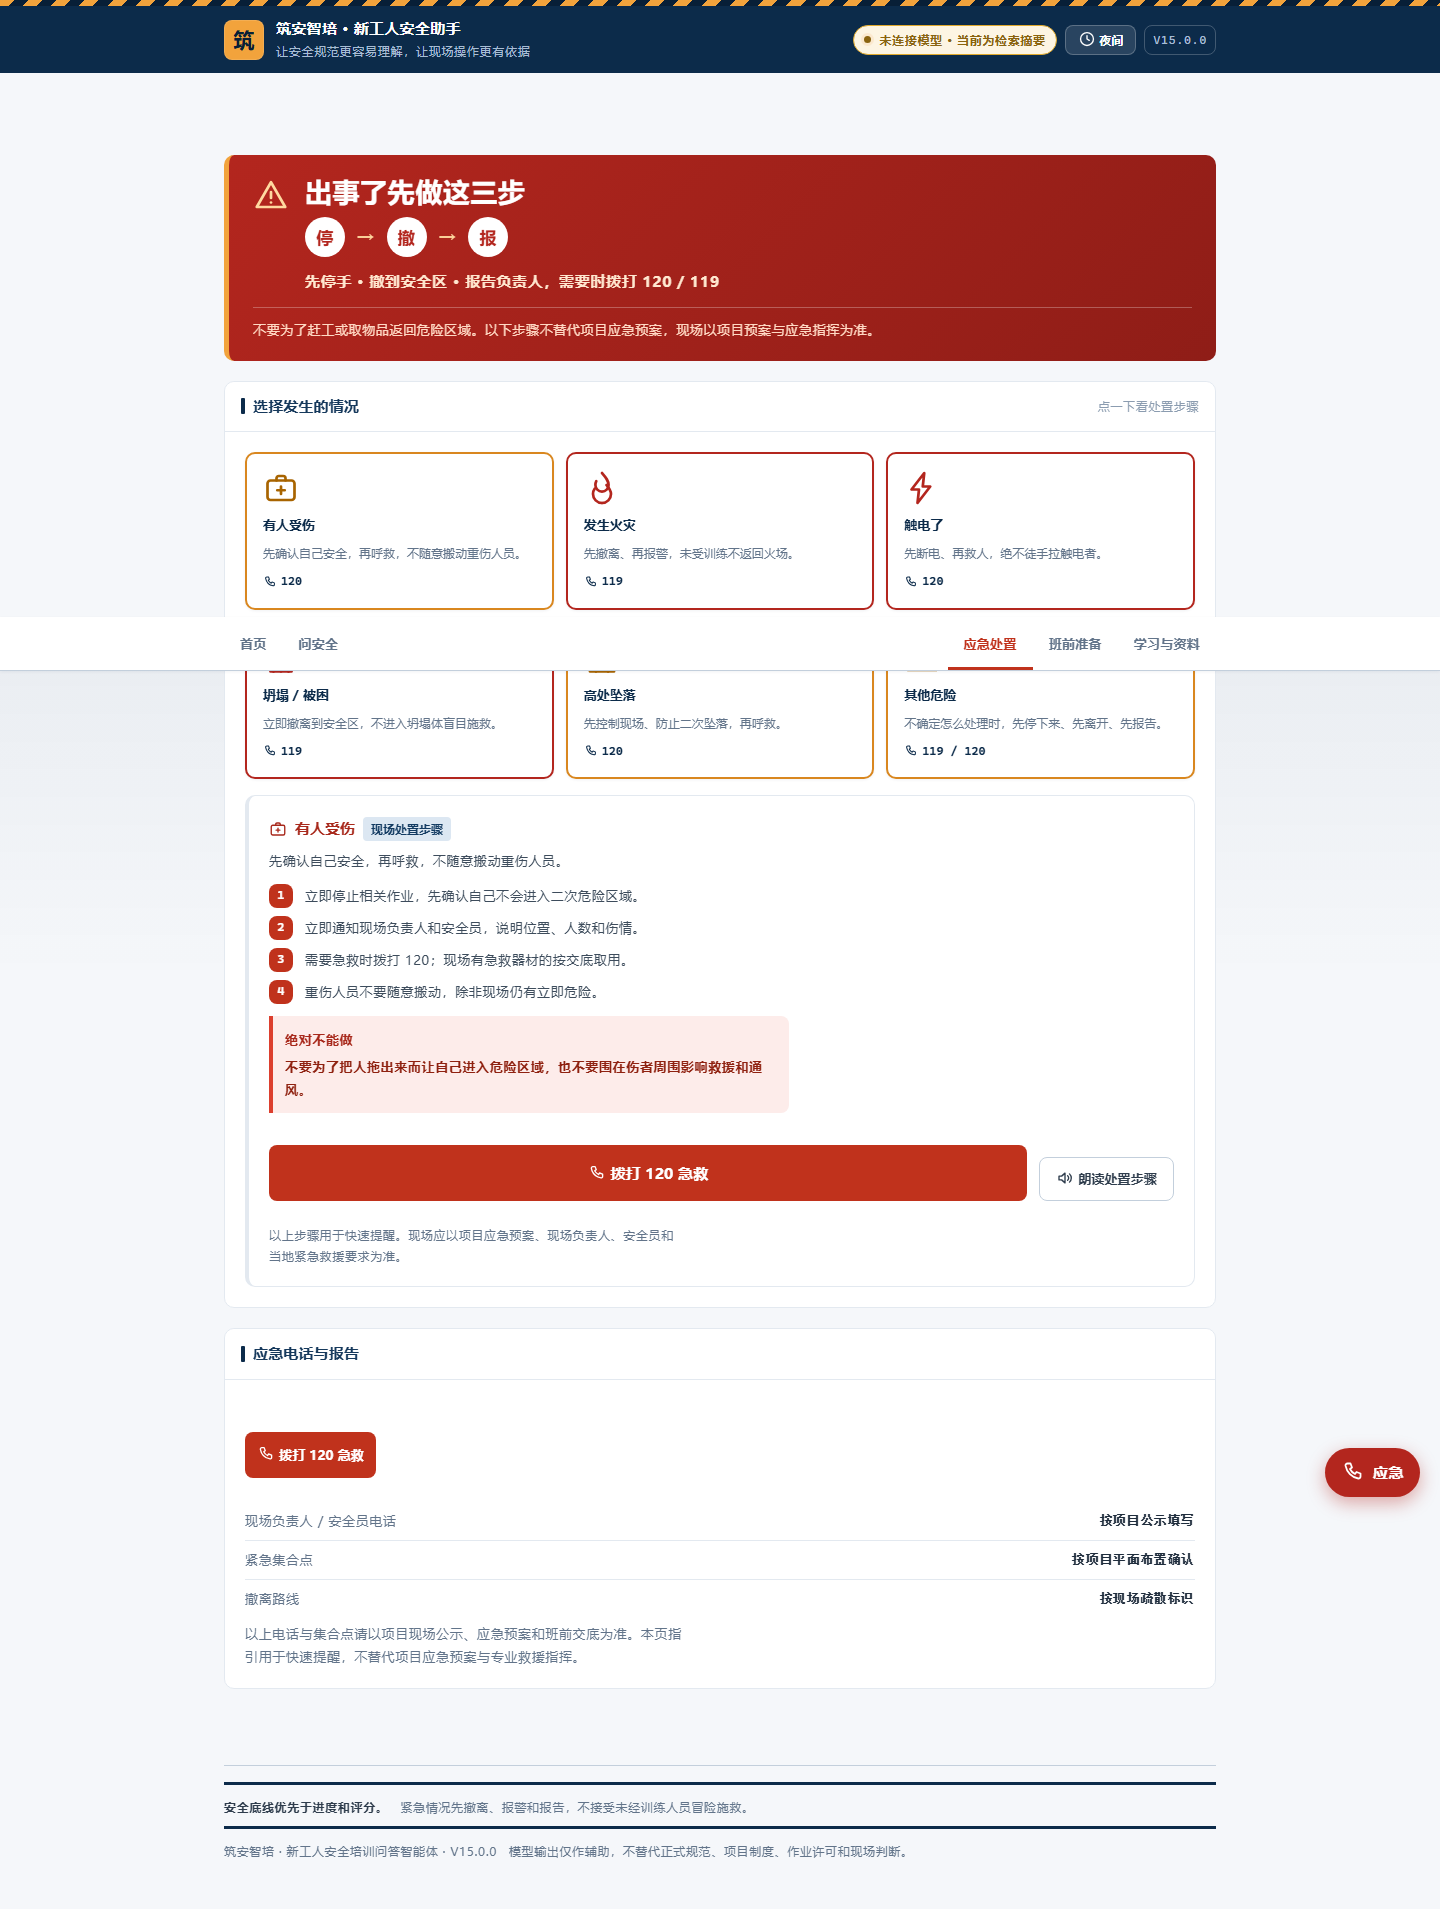
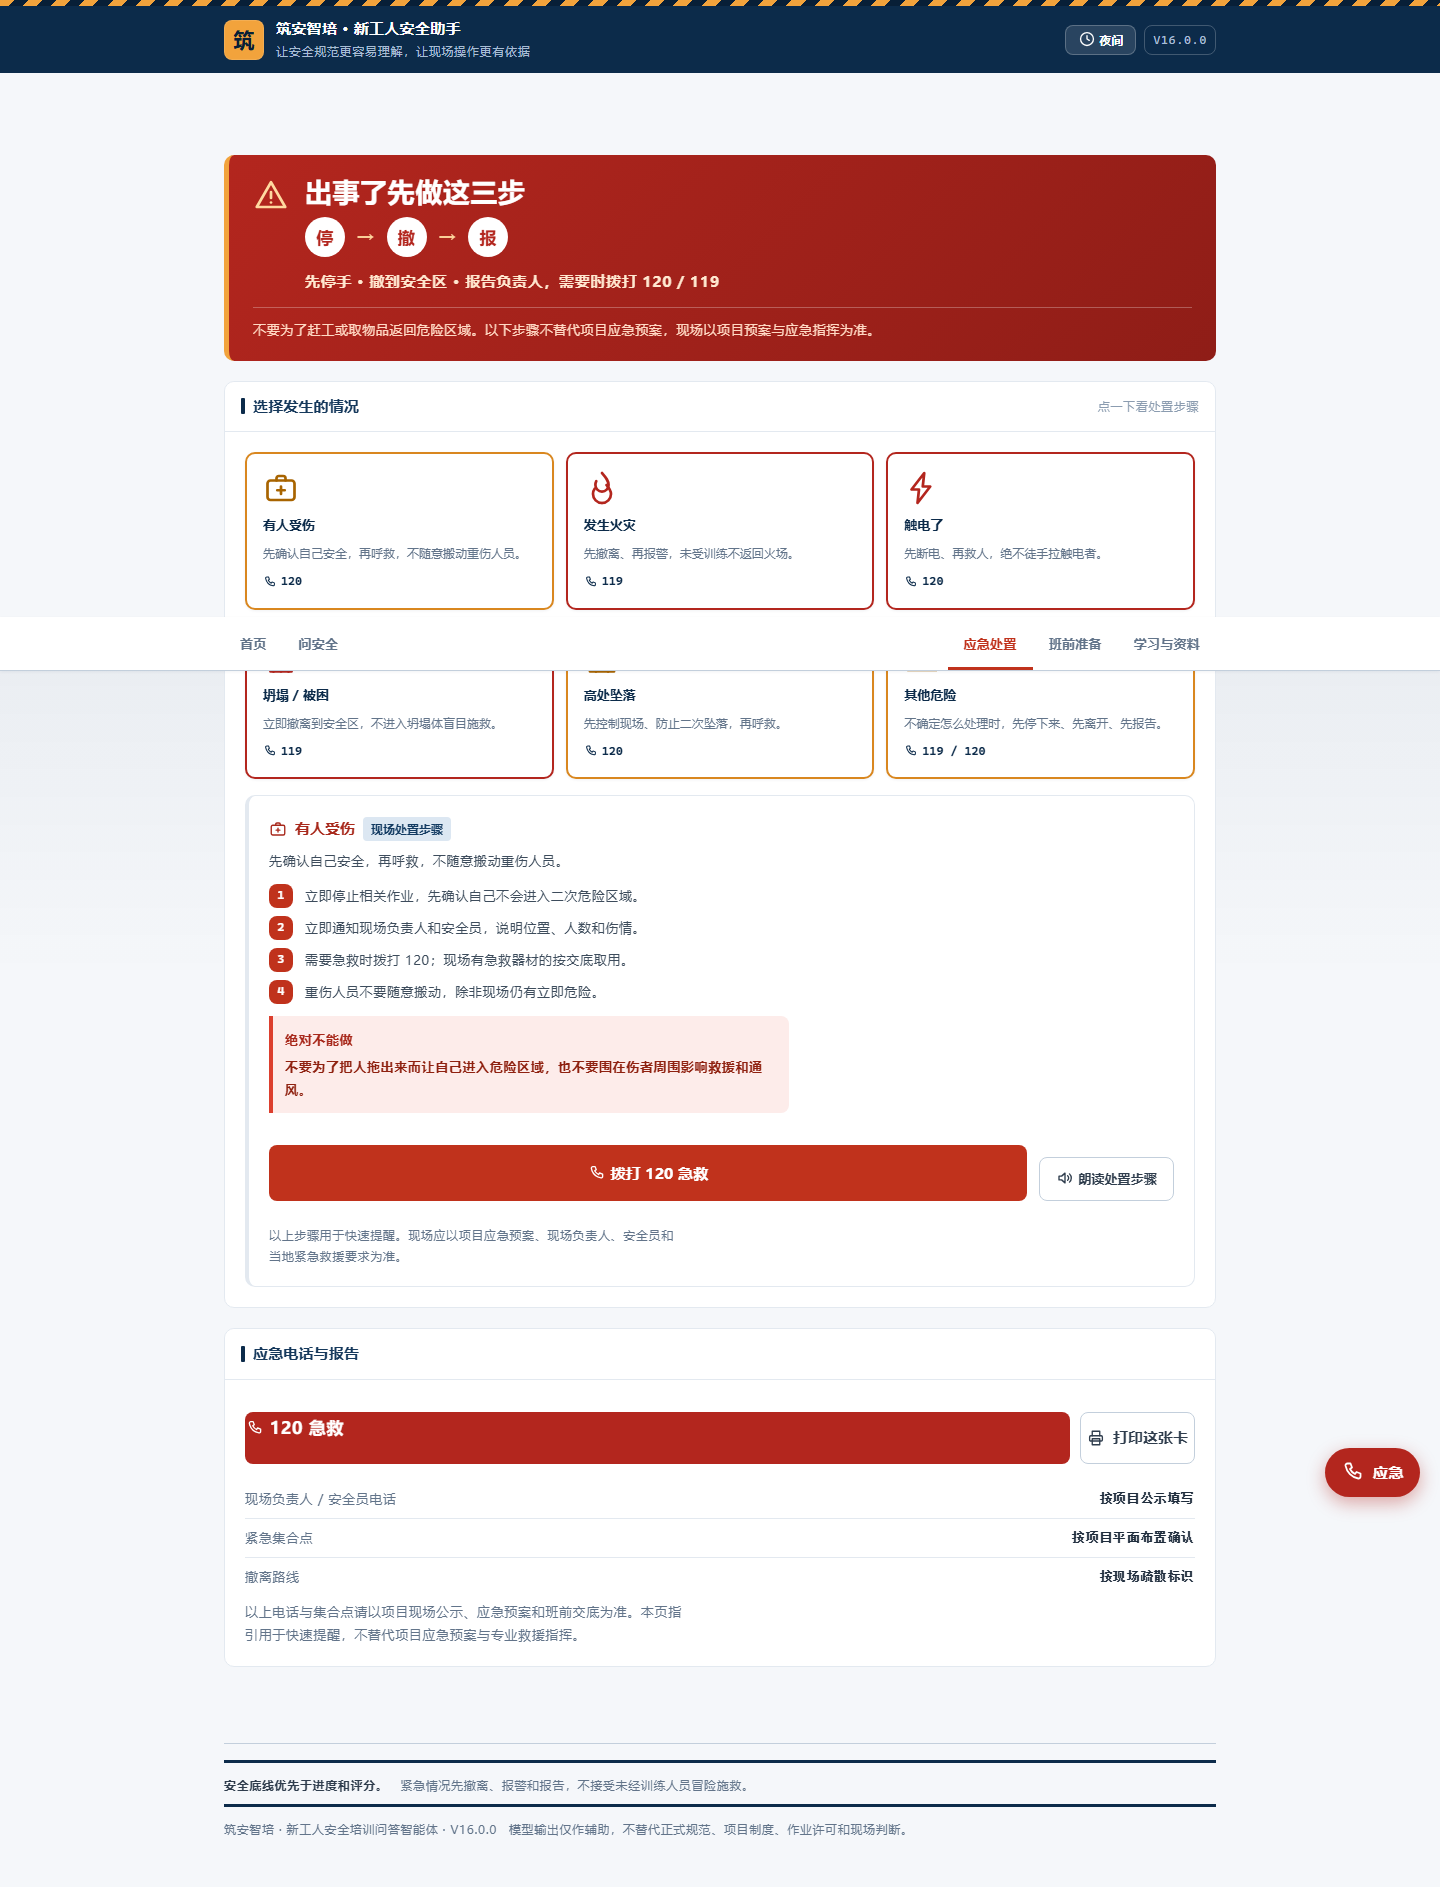
Document the twentieth round: what shipped, the measured before-and-after numbers, and the honest list of what did not get done

diff --git a/第20轮_总结与上线.md b/第20轮_总结与上线.md
@@ -1,0 +1,118 @@
+# 第 20 轮优化 · 总结与上线说明
+
+## 一、给同学的上线消息（复制这段发他）
+
+**【复制开始】**
+
+Render 上部署一次，我推了 5 个提交（最新 `148b65d`）。大概 2 分钟。
+
+https://dashboard.render.com/web/srv-db5pi9d9fdbs73dm9e5g
+
+右上角 **Manual Deploy** → **Deploy latest commit**，等它变 live。
+
+**顺便确认**：左边 **Settings → Build & Deploy** 里 `Auto Deploy` 是不是 `Yes`？
+如果是 `Yes` 但没自动部署，说明 GitHub App 没连上，以后每次都得手动点一下。
+
+部署完访问 https://sitesaha-ai-v16.onrender.com/healthz 确认返回 `"version": "16.0.0"`。
+
+**【复制结束】**
+
+---
+
+## 二、本轮 5 个提交做了什么
+
+| 提交 | 内容 |
+|---|---|
+| `9aa2cd9` | **修乱码**：依据区不再倒标准原文（评分表碎片「扣10分」「10」「8」全清）+ 折叠 |
+| `dc78ae6` | **问答提速**：max_tokens 650→420、来源截断 600 字、等待计时、45 秒超时重试 |
+| `6f3a8df` | **渐进披露第一批**：检查项目索引、标准库、知识库状态、合规说明、安全底线折叠 |
+| `aab464f` | **渐进披露第二批**：案例库、学习积分、常规项分组、导入面板折叠 |
+| `148b65d` | **应急页收口**：拨号条吸底 + 119 橙红 + 打印应急卡 |
+
+---
+
+## 三、§2 问答提速 · 实测
+
+| 项 | 改前 | 改后 |
+|---|---|---|
+| `max_tokens` | 650 | **420** |
+| 每条来源进 prompt | 全文 700~900 字 | **截断 600 字** |
+| `max_context_chars` | 9000（两处默认值） | **4200** |
+| 引用要求 | 强制给编号 [1][2] | 对应不上就不标 |
+
+**本机实测**（5 个问题）：
+
+```
+改前  线上 p50 16.7s / p95 25.8s
+改后  平均 9.0s / 中位 9.3s / 最慢 11.8s
+```
+
+等待界面：气泡显示「通常需要 10~20 秒 · 已等待 N 秒」，超 20 秒转「网络可能较慢，仍在生成…」，45 秒中止并给**重试按钮**（复用原问题）。
+
+**没做**：渐进式返回（你的第 3 条）——需要后端拆成两步接口，成本高，本轮未做。
+
+---
+
+## 四、§3 手机端长度 · 全部达标
+
+用 CDP 真实 390×844 视口实测（每屏 844px）：
+
+| 页面 | 改前 | 改后 | 屏数 | 目标 | |
+|---|---|---|---|---|---|
+| 首页 | 3310 | **2810** | 3.3 | ≤4 | ✅ |
+| 问安全 | 2356 | **2406** | 2.9 | ≤6 | ✅ |
+| 应急处置 | 2519 | **2519** | 3.0 | ≤6 | ✅ |
+| 班前准备 | 5129 | **4164** | 4.9 | ≤6 | ✅ |
+| 学习与资料 | 6000 | **4815** | 5.7 | ≤6 | ✅ |
+
+**全部达标**，用了 9 处原生 `<details>` 折叠：
+检查项目索引 / 标准库 / 在线模型 / 知识库状态 / 合规说明 / 安全底线 / 案例库 / 学习积分 / 导入面板，外加班前清单的常规项分组。
+
+---
+
+## 五、§4 应急页收口
+
+- **拨号条吸底常驻**：120（正红）+ 119（橙红）+ 打印按钮
+- **卡片去重**：每张类型卡只留小号电话 pill，不再出现大按钮
+- **119 配色调整**：`#d9622b` → `#bf4a1a`（对比度 3.66:1 → 5.02:1，过审）
+- **打印样式**：A4 只印应急内容，去掉导航/页脚/拨号条，红警带转黑白边框
+- SOS 圆钮在应急页自身隐藏（之前已做）
+
+---
+
+## 六、回归自检（全绿）
+
+```
+structure check: OK      JS syntax: OK      JS check: OK
+inject check: OK         page check: OK     DOM simulation: OK
+可见文本检查: OK（无 <svg / <use / undefined / NaN / Expecting value）
+check_tags: 1385 行未闭合 0 个              audit_ui: 0 问题
+控件绑定: 无死按钮        §5 规格审计: 21/21
+单元测试: 95 项 OK
+```
+
+---
+
+## 七、没做完的（如实说明）
+
+| 指令 | 状态 |
+|---|---|
+| §2 提速 | ✅ 前 4 条做了；**渐进式返回没做** |
+| §3 渐进披露 | ✅ 全部达标（用折叠；**二级 tab 没做**，折叠已足够） |
+| §4 应急卡 | ✅ 拨号吸底 + 打印；**"合并成一张卡"部分做了**（视觉上仍分两个 panel） |
+| §5 视觉创意 | ❌ **基本没做**（KPI 指标条、案例对照式、4 张线稿插画、微交互） |
+| §6 细节 | 🔶 部分（版本号一致、对比度、胶囊文案已修） |
+| §7 回归 10 条 | 🔶 本地能测的做了；线上要等部署 |
+
+**§5 是本轮最大的未完成项。**
+
+---
+
+## 八、本地实验时的注意事项（给我自己和你）
+
+**PowerShell 内联命令会吃掉引号/引入反斜杠**，本轮因此损坏分片 3 次。
+以后一律「写成 .py 文件 → 执行」，不用 `-c @"..."`。
+
+**CDP 截图前要清 `msedge` 残留进程**，否则扩展的后台页会抢占调试目标。
+
+**改分片后必须重启本地服务**，否则截图还是旧构建（页头会显示旧版本号）。
